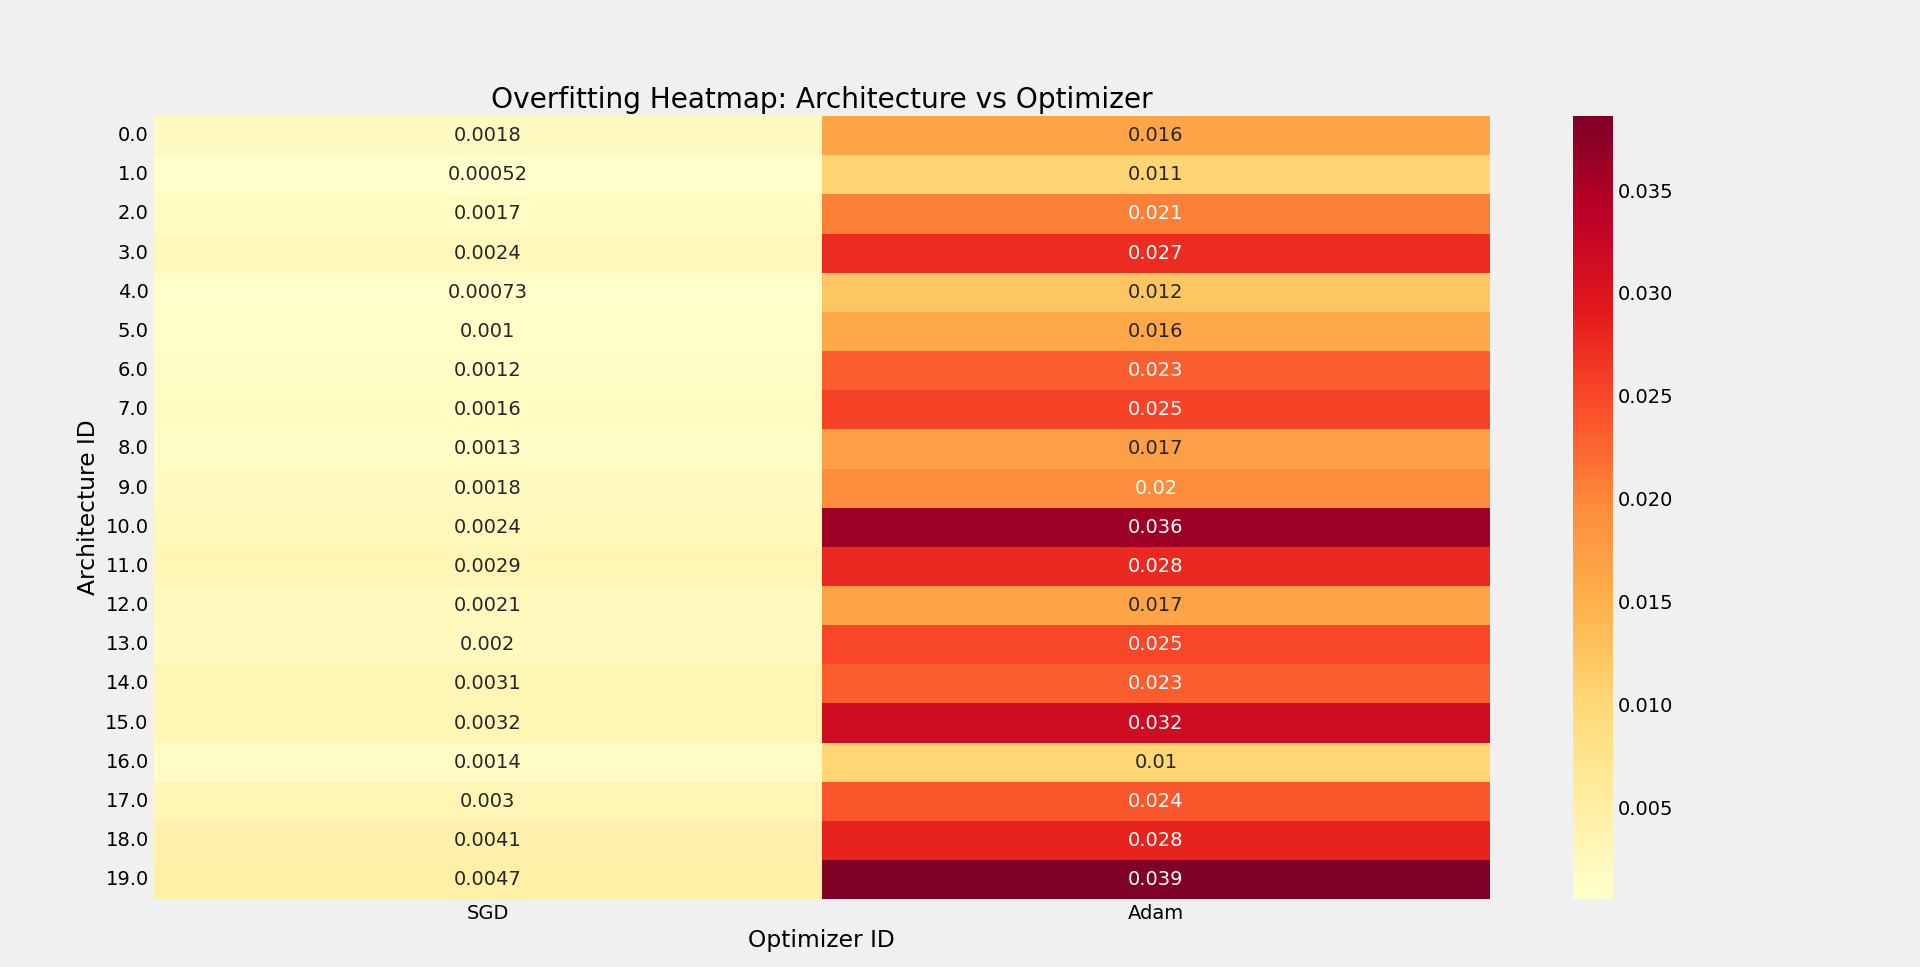
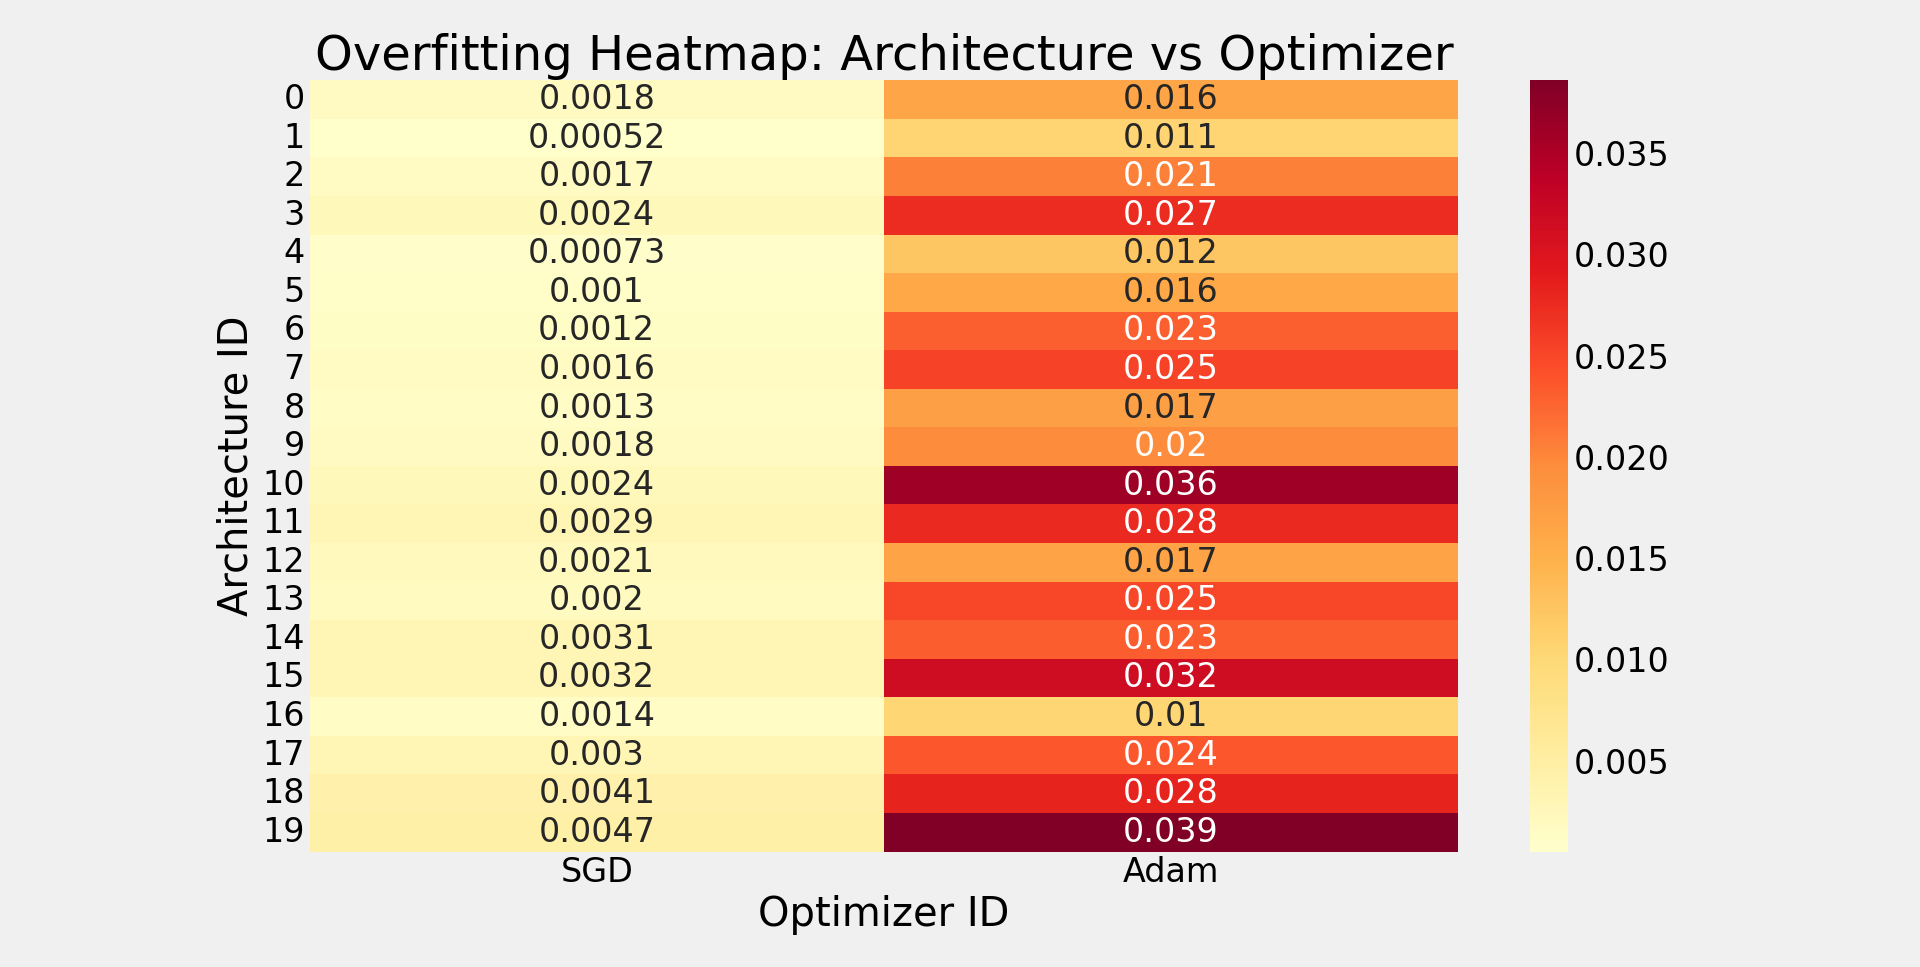
Updates to figures

diff --git a/DataAnalysis.py b/DataAnalysis.py
@@ -98,27 +98,33 @@ def visualizations(df):
                                values="Gap",
                                aggfunc="mean")
     pivot_map = pivot_map.rename(columns={0: "SGD", 1: "Adam"})
+    pivot_map.index = pivot_map.index.astype(int)
     plt.figure(figsize=(8, 10))
     sns.heatmap(pivot_map, annot=True, cmap="YlOrRd")
     plt.title("Overfitting Heatmap: Architecture vs Optimizer")
+    plt.tight_layout()
 
     pivot_map = df.pivot_table(index="Architecture ID",
                                columns="Optimizer ID",
                                values="Accuracy (Training)",
                                aggfunc="mean")
     pivot_map = pivot_map.rename(columns={0: "SGD", 1: "Adam"})
+    pivot_map.index = pivot_map.index.astype(int)
     plt.figure(figsize=(8, 10))
     sns.heatmap(pivot_map, annot=True, cmap="Greens")
     plt.title("Training Accuracy Heatmap: Architecture vs Optimizer")
+    plt.tight_layout()
 
     pivot_map = df.pivot_table(index="Architecture ID",
                                columns="Optimizer ID",
                                values="Accuracy (Testing)",
                                aggfunc="mean")
     pivot_map = pivot_map.rename(columns={0: "SGD", 1: "Adam"})
+    pivot_map.index = pivot_map.index.astype(int)
     plt.figure(figsize=(8, 10))
     sns.heatmap(pivot_map, annot=True, cmap="Greens")
     plt.title("Testing Accuracy Heatmap: Architecture vs Optimizer")
+    plt.tight_layout()
     plt.show()
 
     # graphs over time by architecture ID
@@ -147,23 +153,12 @@ def visualizations(df):
     plt.ylabel("Average Testing Accuracy of 5 Epochs")
     plt.show()
 
-    # pie chart of runtime
-    total_runtime = df.sum()["Runtime (s)"] / 60 / 60
-    total_loadtime = df.sum()["Data Load Time (s)"] / 50 / 60 / 60
-    print(f"Total Runtime (h): {total_runtime}")
-    print(f"Total Loadtime (h): {total_loadtime}")
-    print(f"Total Time (h): {total_runtime + total_loadtime}")
-    (df.groupby(["Batch Size"]).sum()["Runtime (s)"] / 60 / 60 / total_runtime).plot(kind="pie", colormap="Spectral", autopct="%1.1f%%")
-    plt.title("Percentage of Total Runtime by Batch Size")
-    plt.text(s=f"Total Runtime (h): {round(total_runtime, 2)}", x=0, y=0, horizontalalignment="center", verticalalignment="bottom")
-    plt.legend(title="Batch Size", loc="upper left")
+    # runtime vs batch size and architecture line graph
+    sns.lineplot(data=df, x="Architecture ID", y='Runtime (s)', hue=df['Batch Size'].astype(int), palette="Spectral")
+    plt.xticks(range(20))
+    plt.title("Average Runtime per Epoch by Architecture ID and Batch Size")
+    plt.tight_layout()
     plt.show()
-    (df.groupby(["Architecture ID"]).sum()["Runtime (s)"] / 60 / 60 / total_runtime).plot(kind="pie", colormap="Spectral", autopct="%1.1f%%")
-    plt.title("Percentage of Total Runtime by Architecture ID")
-    plt.text(s=f"Total Runtime (h): {round(total_runtime, 2)}", x=0, y=0, horizontalalignment="center", verticalalignment="bottom")
-    plt.legend(title="Architecture ID", loc="upper left")
-    plt.show()
-
 
 if __name__ == "__main__":
     df = pd.read_csv("trials.csv", dtype=float)
@@ -173,6 +168,7 @@ if __name__ == "__main__":
     pd.set_option('display.max_columns', None)
     pd.set_option('display.width', 1000)
     plt.style.use("fivethirtyeight")
+    plt.rcParams["font.size"] = 24
 
     numericalData(df)
     hypothesisTesting(df)
